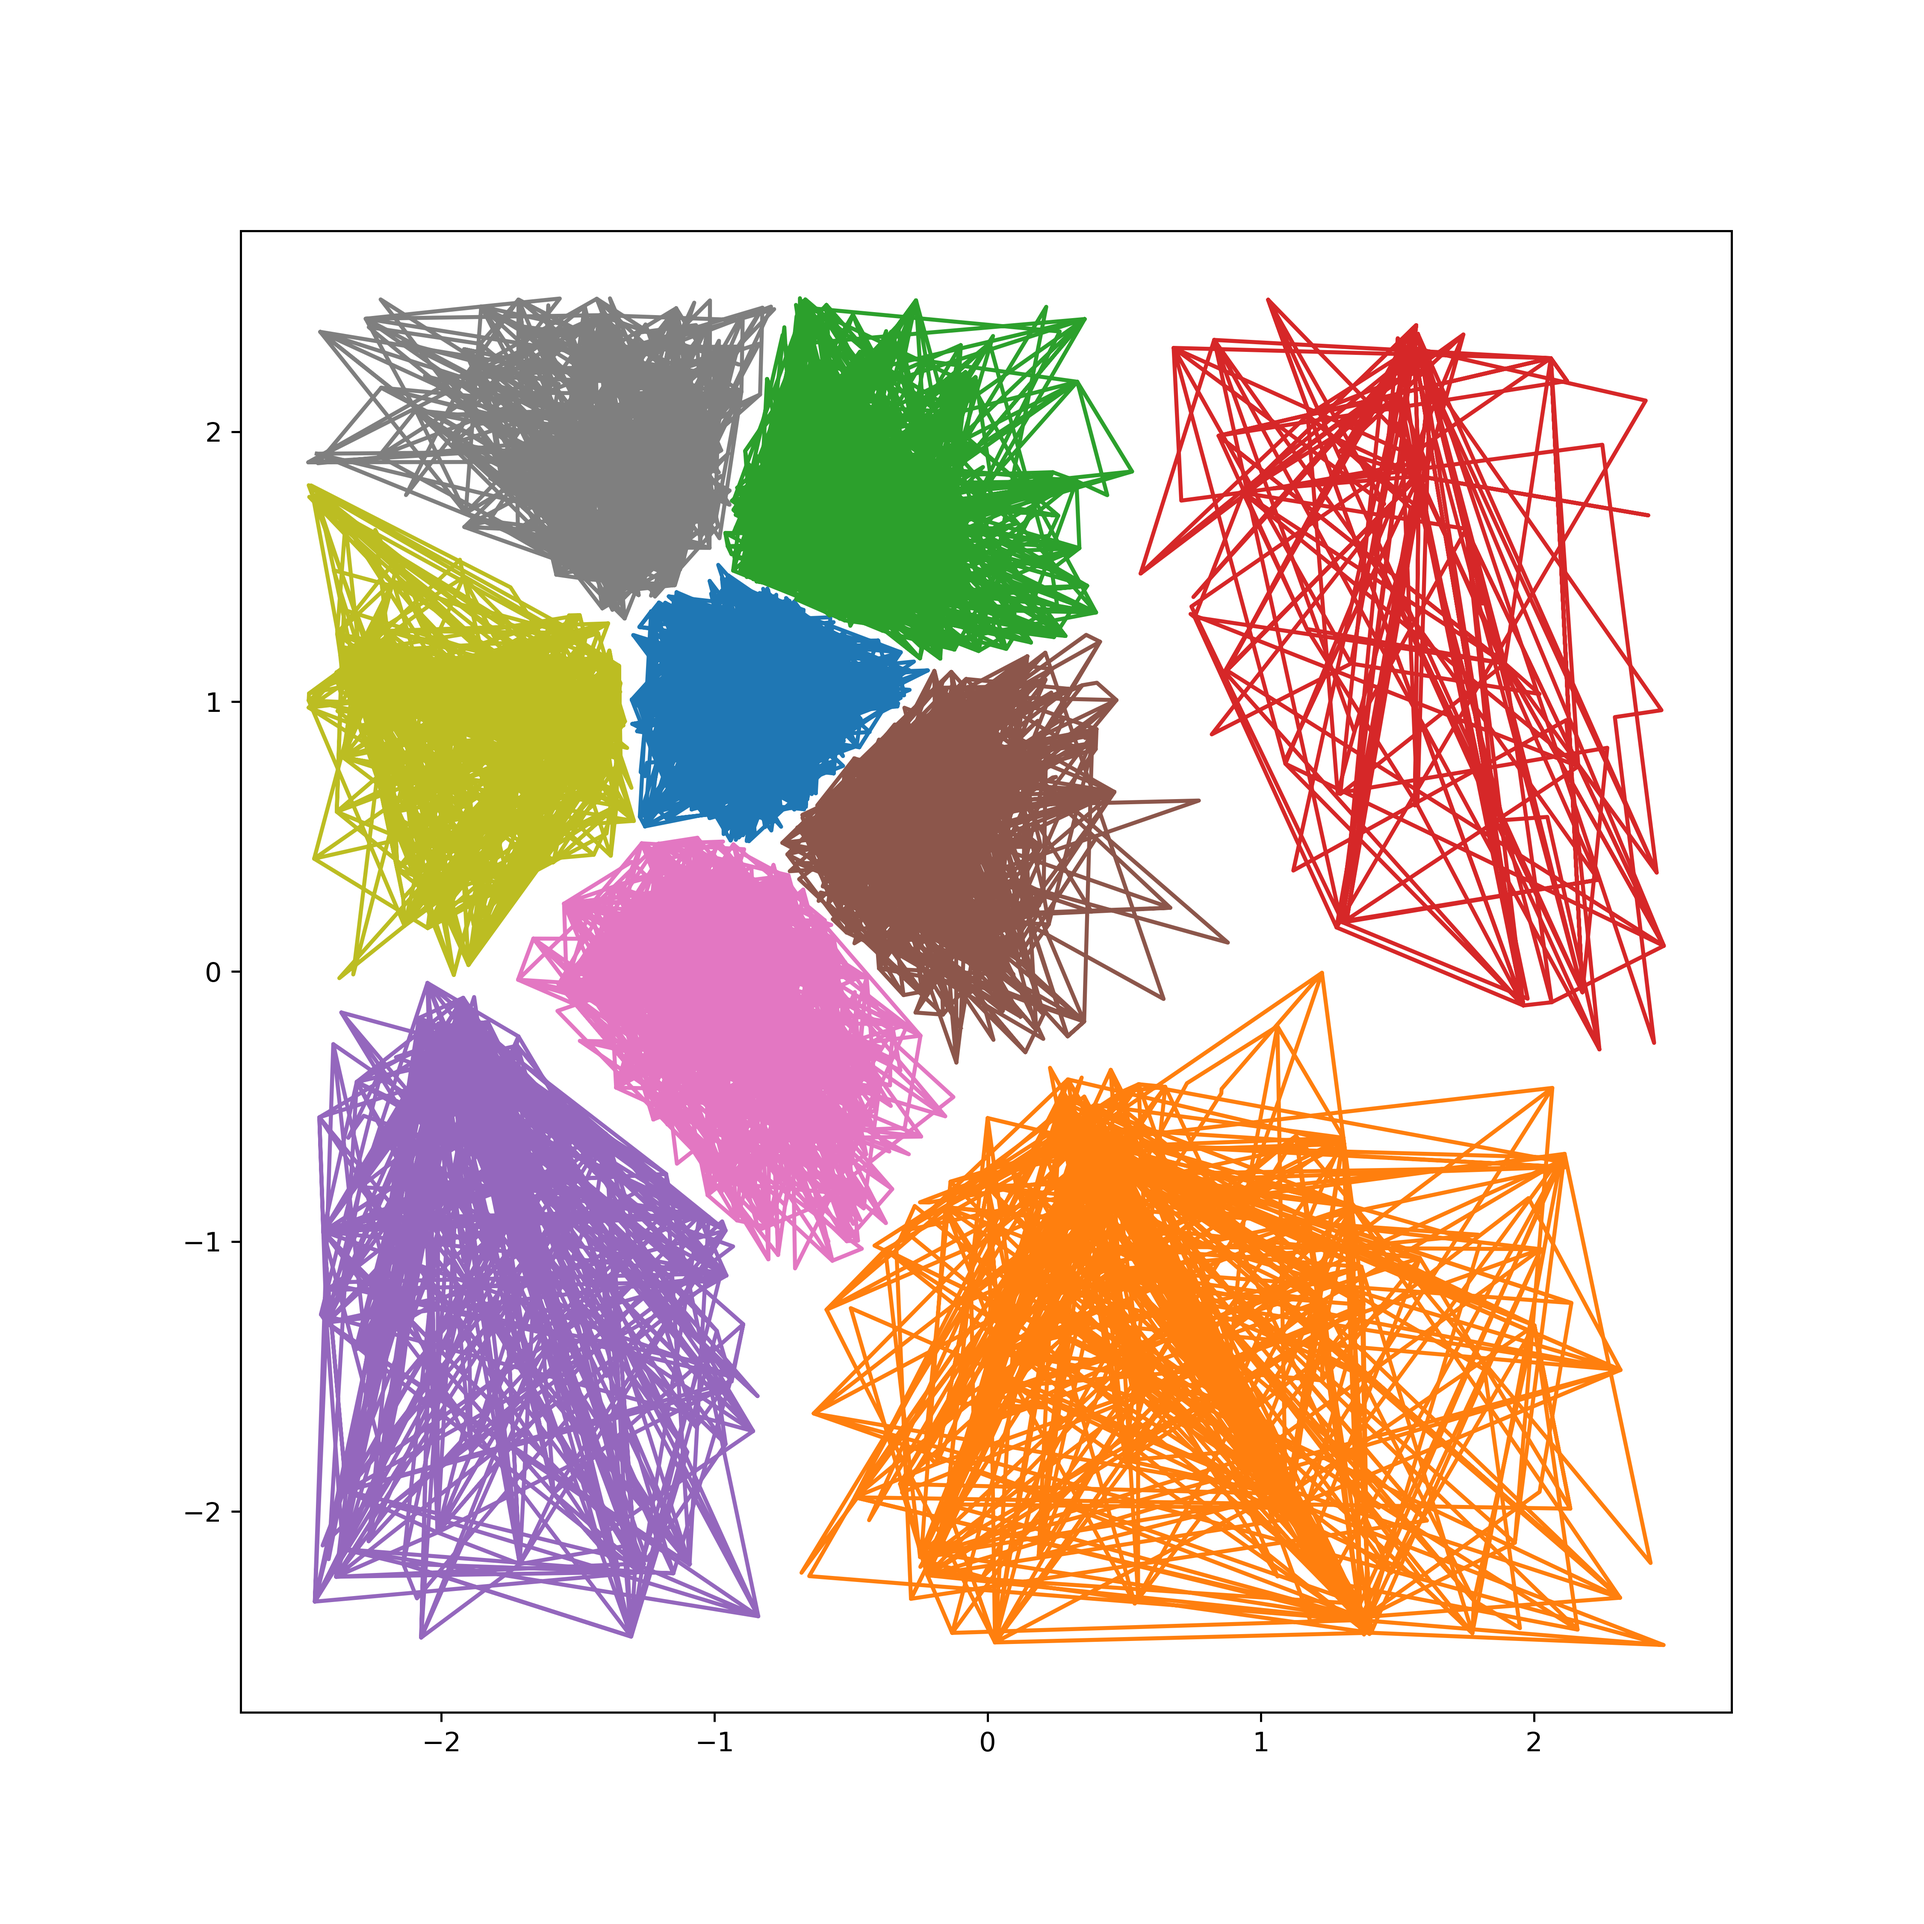
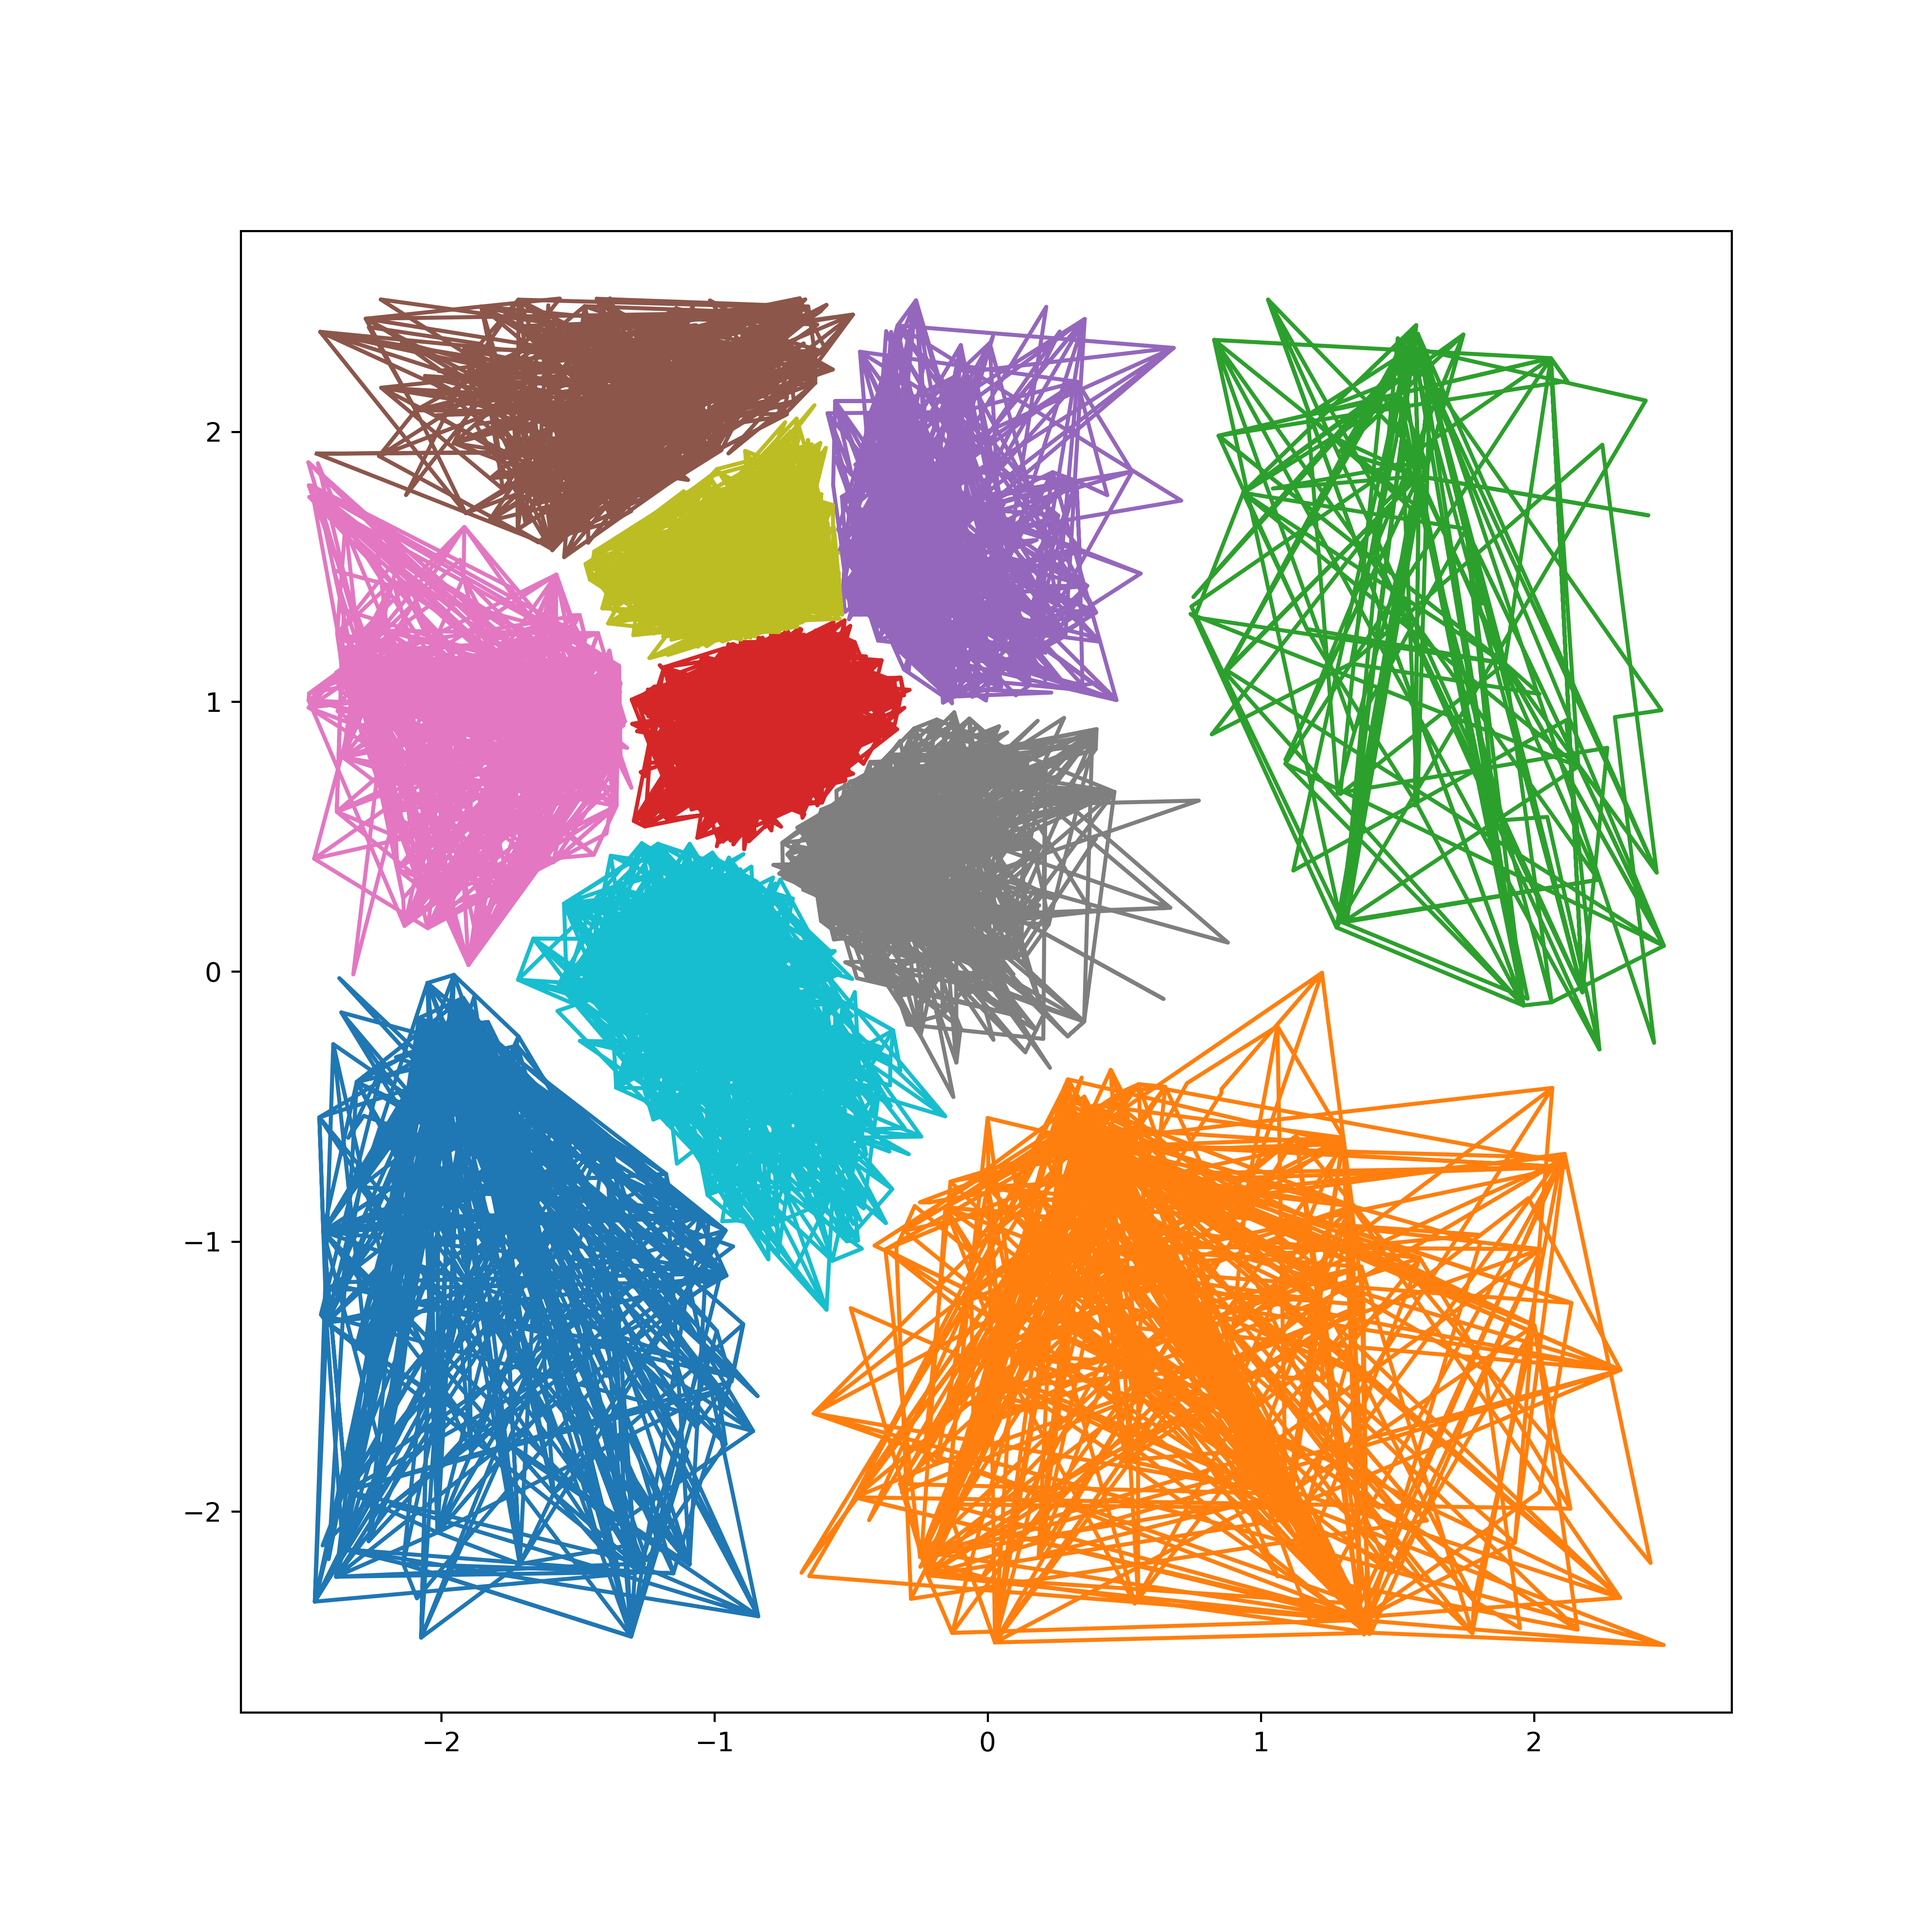
fix

Changed region(s): [[0.1556, 0.1556, 0.8711, 0.8711]]

diff --git a/kmeans.py b/kmeans.py
@@ -101,7 +101,7 @@ class KMeans:
             return 1
 
         fig, ax = plt.subplots(figsize=(10, 10))
-        plt.plot(self.dataSet, '.')
+        plt.plot(self.dataSet[:, 0], self.dataSet[:, 1], '.')
         plt.savefig('source.png', dpi=450)
         plt.show()
 
